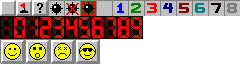
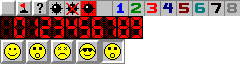
Default to random mine field. Added face clicking support.

Changed region(s): [[0.4083, 0.5938, 0.525, 1.0]]

diff --git a/src/Grid.js b/src/Grid.js
@@ -1,4 +1,5 @@
 import React, { useState, useEffect } from 'react';
+import { isEventInside } from './utils.js';
 import './Grid.css';
 import XYSet from './XYSet';
 
@@ -65,60 +66,34 @@ function Grid({minefield:mf, setNumFlags, getStateXY, setStateXY,
   }
 
   useEffect(() => {
-    if (numRevealed === mf.grid.sx * mf.grid.sy - mf.numMines)
+    const set = new XYSet(mf.grid);
+    revealAt(0, 0, set);
+    revealAt(mf.grid.sx - 1, 0, set);
+    revealAt(0, mf.grid.sy - 1, set);
+    revealAt(mf.grid.sx - 1, mf.grid.sy - 1, set);
+    revealAt(Math.floor(mf.grid.sx/2), Math.floor(mf.grid.sy/2), set);
+  }, [mf]);
+
+  useEffect(() => {
+    if (numRevealed === mf.grid.sx * mf.grid.sy - mf.numMines) {
+      setNumFlags(mf.numMines);
       setIsSuccess(true);
+    }
   }, [numRevealed, mf.grid.sx, mf.grid.sy, mf.numMines, setIsSuccess]);
 
   function revealAt(x, y, set) {
-    if (getStateXY(x, y) === '.' || set.has(x, y)) return;
-    setNumRevealed(num => num + 1);
-    set.add(x, y);
-    setStateXY(x, y, '.');
-    const val = mf.grid.getXY(x, y);
-    if (val === '*')
-      setHasExploded(true);
-    else if (val === 0)
-      mf.grid.forEachNeighbor(x, y, (xx, yy) => revealAt(xx, yy, set));
-  }
-
-  function isEventInside(e, elem) {
-    const rect = elem.getBoundingClientRect();
-    return e.clientX >= rect.left && e.clientX <= rect.right &&
-           e.clientY >= rect.top && e.clientY <= rect.bottom;
-  }
-
-  function pointerMove(x, y) {
-    return (e) => {
-      e.preventDefault();
-      // Sometimes pointerDown gets eaten. Fix this by calling pointerDown
-      // if we're moving with buttons down but nothing is captured.
-      if (e.buttons !== 0 && capturedElem === null) pointerDown(x, y)(e);
-      if (capturedElem !== e.target || hasExploded || isSuccess) return;
-      const inside = isEventInside(e, e.target);
-      if (revealedXYs.length > 0) {
-        setIsClicking(inside);
-        // Toggle the cells that will be revealed.
-        if (inside !== isInside) {
-          revealedXYs.forEach(xy =>
-              setStateXY(...xy, inside ? '-' : ' '));
-        }
-      } else {
-        // If both buttons are pressed and we're on a revealed digit,
-        // start revealing the cells around it.
-        if (e.buttons === 3 && getStateXY(x, y) === '.' &&
-            Number.isInteger(mf.grid.getXY(x, y))) {
-          mf.grid.forEachNeighbor(x, y, (xx, yy) => {
-            if (isRevealable(getStateXY(xx, yy))) {
-              setRevealedXYs(r => {r.push([xx, yy]); return r;});
-              if (inside) {
-                setIsClicking(true);
-                setStateXY(xx, yy, '-');
-              }
-            }
-          });
-        }
-      }
-      setIsInside(inside);
+    const active = [[x, y]];
+    while (active.length > 0) {
+      [x, y] = active.pop();
+      if (getStateXY(x, y) === '.' || set.has(x, y)) continue;
+      setNumRevealed(num => num + 1);
+      set.add(x, y);
+      setStateXY(x, y, '.');
+      const val = mf.grid.getXY(x, y);
+      if (val === '*')
+        setHasExploded(true);
+      else if (val === 0)
+        mf.grid.forEachNeighbor(x, y, (xx, yy) => active.push([xx, yy]));
     }
   }
 
@@ -177,6 +152,41 @@ function Grid({minefield:mf, setNumFlags, getStateXY, setStateXY,
       }
       setRevealedXYs([]);
       setIsInside(false);
+    }
+  }
+
+  function pointerMove(x, y) {
+    return (e) => {
+      e.preventDefault();
+      // Sometimes pointerDown gets eaten. Fix this by calling pointerDown
+      // if we're moving with buttons down but nothing is captured.
+      if (e.buttons !== 0 && capturedElem === null) pointerDown(x, y)(e);
+      if (capturedElem !== e.target || hasExploded || isSuccess) return;
+      const inside = isEventInside(e, e.target);
+      if (revealedXYs.length > 0) {
+        setIsClicking(inside);
+        // Toggle the cells that will be revealed.
+        if (inside !== isInside) {
+          revealedXYs.forEach(xy =>
+              setStateXY(...xy, inside ? '-' : ' '));
+        }
+      } else {
+        // If both buttons are pressed and we're on a revealed digit,
+        // start revealing the cells around it.
+        if (e.buttons === 3 && getStateXY(x, y) === '.' &&
+            Number.isInteger(mf.grid.getXY(x, y))) {
+          mf.grid.forEachNeighbor(x, y, (xx, yy) => {
+            if (isRevealable(getStateXY(xx, yy))) {
+              setRevealedXYs(r => {r.push([xx, yy]); return r;});
+              if (inside) {
+                setIsClicking(true);
+                setStateXY(xx, yy, '-');
+              }
+            }
+          });
+        }
+      }
+      setIsInside(inside);
     }
   }
 

diff --git a/src/App.js b/src/App.js
@@ -1,11 +1,21 @@
 import React, { useState, useEffect, useRef } from 'react';
 import './App.css';
 import Grid from './Grid';
-import createMinefield from './createMinefield';
-import { userRandom } from './utils';
+import { createLogicMinefield, createRandomMinefield } from './createMinefield';
+import { userRandom, isEventInside } from './utils';
 
-const mf = createMinefield(59, 30, 30, 15, 500); //, userRandom);
-//const mf = createMinefield(10, 10, 5, 5, 10);
+const sx = 59;
+const sy = 30;
+const numMines = 450;
+
+// const sx = 10;
+// const sy = 10;
+// const numMines = 10;
+function createMf() {
+  return createRandomMinefield(sx, sy,
+                               Math.floor(sx/2), Math.floor(sy/2),
+                               numMines);
+}
 
 function getPosXForDigit(val, digitPos) {
   if (val < 0) val = 0;
@@ -16,13 +26,23 @@ function getPosXForDigit(val, digitPos) {
 
 function App() {
 
+  const [ isClicking, setIsClicking ] = useState(false);
+  const [ isClickingOnFace, setIsClickingOnFace ] = useState(false);
+  const [ mf, setMf ] = useState(createMf());
   const [ numFlags, setNumFlags ] = useState(0);
-  const [ isClicking, setIsClicking ] = useState(0);
-  const [ hasExploded, setHasExploded ] = useState(0);
+  const [ hasExploded, setHasExploded ] = useState(false);
   const [ isSuccess, setIsSuccess ] = useState(false);
-  const [ stateGrid, setStateGrid ] =
-      useState(' '.repeat(mf.grid.sx * mf.grid.sy));
+  const [ stateGrid, setStateGrid ] = useState(' '.repeat(sx * sy));
   const [ time, setTime ] = useState(0);
+
+  function resetState() {
+    setMf(createMf());
+    setNumFlags(0);
+    setHasExploded(false);
+    setIsSuccess(false);
+    setStateGrid(' '.repeat(sx * sy));
+    setTime(0);
+  }
 
   let interval = useRef(null);
   useEffect(() => {
@@ -47,16 +67,45 @@ function App() {
   }
 
   function getPosXForFace() {
+    if (isClicking) {
+      return isClickingOnFace ? '-200px' : '-50px';
+    }
     if (hasExploded) return '-100px';
     if (isSuccess) return '-150px';
-    if (isClicking) return '-50px';
     return '0px';
+  }
+
+  function pointerDown(e) {
+    if (e.buttons !== 1) return;
+    e.preventDefault();
+    e.target.setPointerCapture(e.pointerId);
+    setIsClicking(true);
+    setIsClickingOnFace(true);
+  }
+
+  function pointerUp(e) {
+    if (isClickingOnFace) {
+      e.preventDefault();
+      e.target.releasePointerCapture(e.pointerId);
+      setIsClicking(false);
+      setIsClickingOnFace(false);
+      resetState();
+    }
+  }
+
+  function pointerMove(e) {
+    if (isClickingOnFace) {
+      e.preventDefault();
+      setIsClicking(isEventInside(e, e.target));
+    }
   }
 
   return (
     <div className='App'>
       <div className='Top'>
         <div className='DigitBox'>
+          <div className='Digit' style={{backgroundPositionX:
+                  getPosXForDigit(mf.numMines - numFlags, 1000)}} />
           <div className='Digit' style={{backgroundPositionX:
                   getPosXForDigit(mf.numMines - numFlags, 100)}} />
           <div className='Digit' style={{backgroundPositionX:
@@ -66,9 +115,15 @@ function App() {
         </div>
         <div className='CenterBox'>
           <div className='FaceBox' style={{backgroundPositionX:
-                  getPosXForFace()}} />
+                  getPosXForFace()}}
+                 onPointerDown={pointerDown}
+                 onPointerUp={pointerUp}
+                 onPointerMove={pointerMove}
+                />
         </div>
         <div className='DigitBox'>
+          <div className='Digit' style={{backgroundPositionX:
+                  getPosXForDigit(time, 1000)}} />
           <div className='Digit' style={{backgroundPositionX:
                   getPosXForDigit(time, 100)}} />
           <div className='Digit' style={{backgroundPositionX:

diff --git a/src/Minefield.js b/src/Minefield.js
@@ -4,9 +4,9 @@ import XYSet from './XYSet'
 
 class Minefield {
   constructor(sx, sy, rng) {
+    this.rng = rng === undefined ? Math.random : rng;
     this.grid = new Grid2d(sx, sy, '?');
     this.numUnknowns = sx * sy;
-    this.rng = rng === undefined ? Math.random : rng;
     this.numMines = 0;
     this.boundary = new XYSet(this.grid);
     this.toDeduct = new XYSet(this.grid);
@@ -55,6 +55,36 @@ class Minefield {
     });
   }
 
+  hasOnlyFiftyFifty() {
+
+  }
+
+  placeMinesRandomly(totalMines, setToIgnore) {
+    if (setToIgnore === undefined) setToIgnore = new XYSet(this.grid);
+
+    const options = new XYSet(this.grid);
+    this.grid.forEachXYVal((x, y) => {
+      if (!setToIgnore.has(x, y))
+        options.add(x, y);
+    });
+    const mines = options.randomSubset(totalMines);
+    this.grid.forEachXYVal((x, y) => {
+      this.grid.setXY(x, y, mines.has(x, y) ? '*' : '?');
+    });
+    this.numMines = mines.size;
+    this.numUnknowns = this.sx * this.sy - this.numMines;
+
+    this.grid.forEachXYVal((x, y, val) => {
+      if (val === '?')
+        this.grid.setXY(x, y, this.countAllMinesAroundXY(x, y));
+    });
+    this.numUnknowns = 0;
+
+    this.boundary = new XYSet(this.grid);
+    this.toDeduct = new XYSet(this.grid);
+    this.deducted = new XYSet(this.grid);
+  }
+
   placeMinesOnBoundary(totalMines) {
     // First place mines along the boundary
     const numMines = Math.max(0, Math.round((totalMines - this.numMines) *
@@ -80,7 +110,6 @@ class Minefield {
     this.doDeductions();
     this.extendBoundary();
   }
-
 
   backtrack() {
     this.removeBlockingMines();

diff --git a/src/createMinefield.js b/src/createMinefield.js
@@ -1,11 +1,12 @@
 import Minefield from './Minefield';
+import XYSet from './XYSet';
 
 // mineDecay indicates how many mines we remove from the target number.
 // Every time we fail we double mineDecay.
 // When we succeed we reset
 const mineDecayBase = 1/256;
 
-function createMinefield(sizeX, sizeY, startX, startY, numMines, rng) {
+export function createLogicMinefield(sizeX, sizeY, startX, startY, numMines, rng) {
   const mf = new Minefield(sizeX, sizeY, rng);
   mf.start(startX, startY);
 
@@ -25,9 +26,19 @@ function createMinefield(sizeX, sizeY, startX, startY, numMines, rng) {
     mf.backtrack();
     mineDecay *= 2;
   }
-
-  console.log('Num mines = ', mf.numMines);
   return mf;
 }
 
-export default createMinefield;
+export function createRandomMinefield(sizeX, sizeY, startX, startY, numMines, rng) {
+  const mf = new Minefield(sizeX, sizeY, rng);
+
+  const setToIgnore = new XYSet(mf.grid);
+  setToIgnore.add(0, 0);
+  setToIgnore.add(sizeX - 1, 0);
+  setToIgnore.add(0, sizeY - 1);
+  setToIgnore.add(sizeX - 1, sizeY - 1);
+  mf.grid.forCellsInRing(startX, startY, 1, (x, y) => setToIgnore.add(x, y));
+  mf.placeMinesRandomly(numMines, setToIgnore);
+
+  return mf;
+}

diff --git a/src/utils.js b/src/utils.js
@@ -11,6 +11,13 @@ export function areNeighbors(x1, y1, x2, y2) {
   return Math.abs(x2 - x1) <= 1 &&  Math.abs(y2 - y1) <= 1;
 }
 
+
+export function isEventInside(e, elem) {
+  const rect = elem.getBoundingClientRect();
+  return e.clientX >= rect.left && e.clientX <= rect.right &&
+         e.clientY >= rect.top && e.clientY <= rect.bottom;
+}
+
 // Find the group of cells shared between two cells.
 export function sharedGroup(x1, y1, x2, y2) {
   const d = [x2 - x1, y2 - y1];

diff --git a/src/App.css b/src/App.css
@@ -1,13 +1,15 @@
 .App {
   display: flex;
   flex-direction: column;
+/*
   border-top: solid white 4px;
   border-left: solid white 4px;
   border-bottom: solid #808080 4px;
   border-right: solid #808080 4px;
+*/
   width: fit-content;
   background: #c0c0c0;
-  padding: 8px;
+  padding: 12px;
 }
 
 .Top {

diff --git a/src/XYSet.js b/src/XYSet.js
@@ -2,6 +2,7 @@ class XYSet {
 
   // A simple set that contains X, Y coordinates from a Grid2d
   constructor(grid) {
+    if (!grid) console.log('Error! A XYSet needs a grid!');
     this.grid = grid;
     this.set = new Set();
   }
